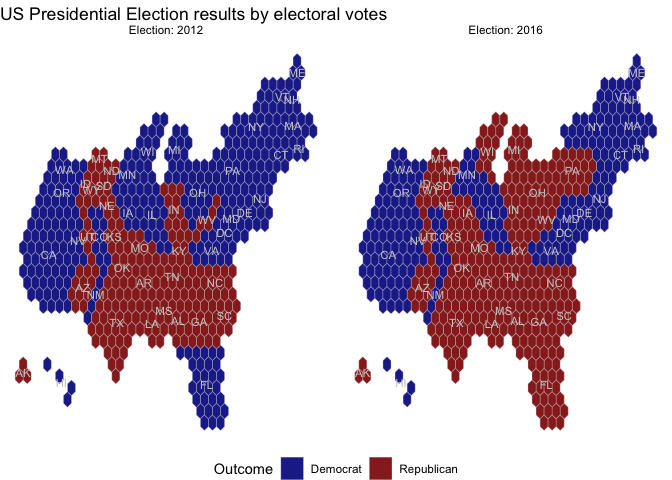
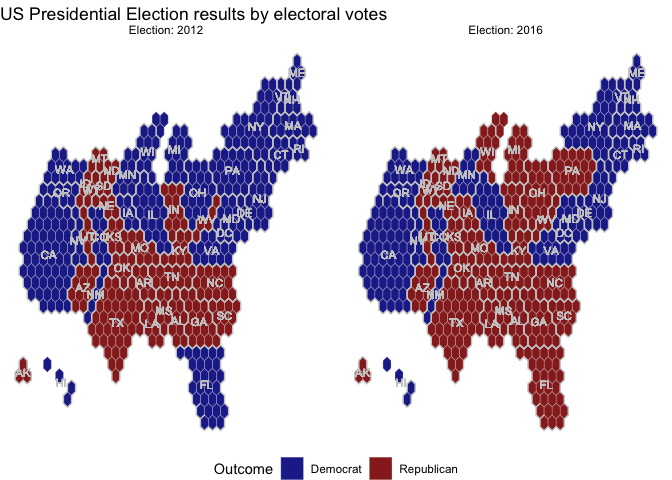
adding state outlines

diff --git a/README.md b/README.md
@@ -111,20 +111,21 @@ ushex_plus %>%
 electoral_hexplus <- electoral_hex %>%
   left_join(elections, by=c("state" = "state_po"))
 
-centers <- electoral_hex %>% select(centerX, centerY, state) %>% unique()
 # Make a first chloropleth map
 electoral_hexplus %>%
   filter(year >= 2012) %>%
   mutate(
     Election = year,
     Outcome = c("Republican", "Democrat")[as.numeric(perc_rep < perc_dem) + 1]) %>%
-  ggplot() +
-  geom_polygon(aes(fill =  Outcome, 
-                   x = long, y = lat, group = group), 
+  ggplot(aes(x = long, y = lat, group = group)) +
+  geom_polygon(aes(fill =  Outcome), 
                colour = "grey90", size = 0.1, alpha = 0.9) +
   scale_fill_manual(values = c("darkblue", "darkred")) +
   geom_text(aes(x = centerX, y = centerY, label = state), 
-            colour = "grey80", size = 3, data = centers) +
+            colour = "grey80", size = 3, 
+            data = electoral_state_outline_hex) +
+  geom_path(colour = "grey80", size = 0.5, 
+            data = electoral_state_outline_hex) +
   theme_void() +
 #  coord_map() +
   facet_wrap(~Election, labeller = "label_both") +
